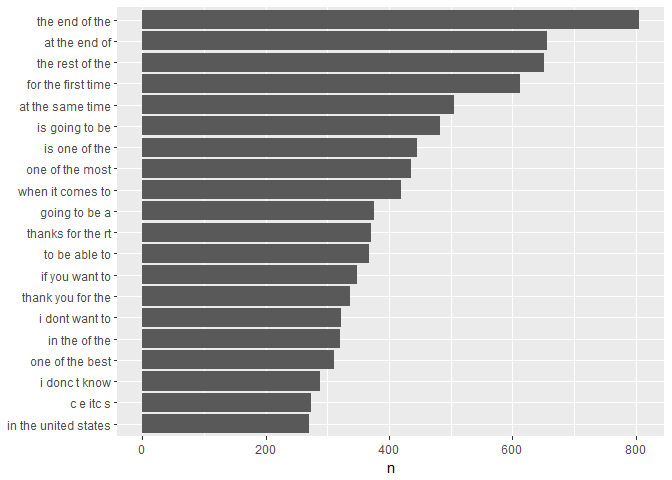
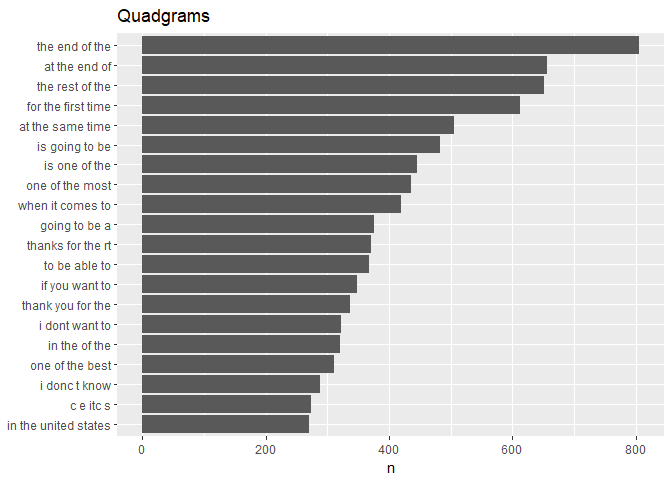
Add plot titles. Add Quitgrams

Changed region(s): [[0.0312, 0.0, 0.9688, 0.875], [0.2188, 0.8125, 0.4688, 0.875]]

diff --git a/04A_Task_Script.md b/04A_Task_Script.md
@@ -1,7 +1,7 @@
 Task 04A: Fast Ngram Files
 ================
 Mark Blackmore
-2017-11-28
+2017-11-30
 
 -   [Load the Data](#load-the-data)
 -   [Sample the data](#sample-the-data)
@@ -118,11 +118,11 @@ quadgram_repo <- clean_sample  %>%
   unnest_tokens(quadgram, text, token = "ngrams", n = 4)
 ```
 
-Quingrams
+Quintgrams
 
 ``` r
-quingram_repo <- clean_sample  %>%
-  unnest_tokens(quingram, text, token = "ngrams", n = 5)
+quintgram_repo <- clean_sample  %>%
+  unnest_tokens(quintgram, text, token = "ngrams", n = 5)
 ```
 
 Reduce n-grams files
@@ -158,26 +158,26 @@ quadgram_cover <- quadgram_repo %>%
 rm(list = c("quadgram_repo"))
 ```
 
-Quingrams
+Quintgrams
 
 ``` r
-quingram_cover <- quingram_repo %>%
-  count(quingram) %>%  
+quintgram_cover <- quintgram_repo %>%
+  count(quintgram) %>%  
   filter(n > 10) %>%
   arrange(desc(n))  
-rm(list = c("quingram_repo"))
+rm(list = c("quintgram_repo"))
 ```
 
 What does the distribution on ngrams look like?
 -----------------------------------------------
 
 ``` r
-disty <- data_frame(ngram = c(rep("bigrams",   nrow(bigram_cover)),
+disty <- data_frame(ngram = c(rep("bigrams",  nrow(bigram_cover)),
                              rep("trigrams",  nrow(trigram_cover)),
                              rep("quadgrams", nrow(quadgram_cover)),
-                             rep("quingrams", nrow(quingram_cover))),
-                   number = c(bigram_cover$n, trigram_cover$n, quadgram_cover$n,
-                              quingram_cover$n))
+                             rep("quintgrams", nrow(quintgram_cover))),
+                    number = c(bigram_cover$n,  trigram_cover$n, 
+                              quadgram_cover$n, quintgram_cover$n))
 disty
 ```
 
@@ -210,19 +210,20 @@ ggsave("./ngram_match/www/ngrams.png")
     ## Saving 7 x 5 in image
 
 ``` r
-quingram_cover %>%
+quintgram_cover %>%
   top_n(20, n) %>%
-  mutate(quingram = reorder(quingram, n)) %>%
-  ggplot(aes(quingram, n)) +
+  mutate(quintgram = reorder(quintgram, n)) %>%
+  ggplot(aes(quintgram, n)) +
   geom_col() +
   xlab(NULL) +
-  coord_flip()
+  coord_flip() +
+  ggtitle("Quintgrams")
 ```
 
 ![](04A_Task_Script_files/figure-markdown_github-ascii_identifiers/DistyPlot-2.png)
 
 ``` r
-ggsave("./ngram_match/www/quingrams.png")
+ggsave("./ngram_match/www/quintgrams.png")
 ```
 
     ## Saving 7 x 5 in image
@@ -234,7 +235,8 @@ quadgram_cover %>%
   ggplot(aes(quadgram, n)) +
   geom_col() +
   xlab(NULL) +
-  coord_flip()
+  coord_flip() +
+  ggtitle("Quadgrams")
 ```
 
 ![](04A_Task_Script_files/figure-markdown_github-ascii_identifiers/DistyPlot-3.png)
@@ -252,7 +254,8 @@ trigram_cover %>%
   ggplot(aes(trigram, n)) +
   geom_col() +
   xlab(NULL) +
-  coord_flip()
+  coord_flip() +
+  ggtitle("Trigrams")
 ```
 
 ![](04A_Task_Script_files/figure-markdown_github-ascii_identifiers/DistyPlot-4.png)
@@ -270,7 +273,8 @@ bigram_cover %>%
   ggplot(aes(bigram, n)) +
   geom_col() +
   xlab(NULL) +
-  coord_flip()
+  coord_flip() +
+  ggtitle("Bigrams")
 ```
 
 ![](04A_Task_Script_files/figure-markdown_github-ascii_identifiers/DistyPlot-5.png)
@@ -348,9 +352,9 @@ quad_words
     ## # ... with 9,931 more rows
 
 ``` r
-quin_words <- quingram_cover %>%
-  separate(quingram, c("word1", "word2", "word3", "word4", "word5"), sep = " ")
-quin_words
+quint_words <- quintgram_cover %>%
+  separate(quintgram, c("word1", "word2", "word3", "word4", "word5"), sep = " ")
+quint_words
 ```
 
     ## # A tibble: 1,317 x 6
@@ -374,7 +378,7 @@ Save data for the Shiny App
 saveRDS(bi_words, "./ngram_match/app_data/bi_words_fast.rds")
 saveRDS(tri_words, "./ngram_match/app_data/tri_words_fast.rds")
 saveRDS(quad_words,"./ngram_match/app_data/quad_words_fast.rds")
-saveRDS(quin_words,"./ngram_match/app_data/quin_words_fast.rds")
+saveRDS(quint_words,"./ngram_match/app_data/quint_words_fast.rds")
 ```
 
 ------------------------------------------------------------------------
@@ -403,27 +407,25 @@ sessionInfo()
     ## [1] stats     graphics  grDevices utils     datasets  methods   base     
     ## 
     ## other attached packages:
-    ##  [1] bindrcpp_0.2       ngram_3.0.3        wordcloud_2.5     
-    ##  [4] RColorBrewer_1.1-2 knitr_1.17         stringr_1.2.0     
-    ##  [7] dplyr_0.7.4        purrr_0.2.3        readr_1.1.1       
-    ## [10] tidyr_0.7.1        tibble_1.3.4       ggplot2_2.2.1     
-    ## [13] tidyverse_1.1.1    tidytext_0.1.4    
+    ##  [1] bindrcpp_0.2    knitr_1.17      stringr_1.2.0   dplyr_0.7.4    
+    ##  [5] purrr_0.2.3     readr_1.1.1     tidyr_0.7.1     tibble_1.3.4   
+    ##  [9] ggplot2_2.2.1   tidyverse_1.1.1 tidytext_0.1.4 
     ## 
     ## loaded via a namespace (and not attached):
-    ##  [1] tidyselect_0.2.2  slam_0.1-40       reshape2_1.4.2   
-    ##  [4] haven_1.1.0       lattice_0.20-35   colorspace_1.3-2 
-    ##  [7] htmltools_0.3.6   SnowballC_0.5.1   yaml_2.1.14      
-    ## [10] rlang_0.1.2       foreign_0.8-69    glue_1.1.1       
-    ## [13] modelr_0.1.1      readxl_1.0.0      bindr_0.1        
-    ## [16] plyr_1.8.4        munsell_0.4.3     gtable_0.2.0     
-    ## [19] cellranger_1.1.0  rvest_0.3.2       psych_1.7.8      
-    ## [22] evaluate_0.10.1   labeling_0.3      forcats_0.2.0    
-    ## [25] parallel_3.4.2    broom_0.4.2       tokenizers_0.1.4 
-    ## [28] Rcpp_0.12.13      backports_1.1.1   scales_0.5.0     
-    ## [31] jsonlite_1.5      mnormt_1.5-5      hms_0.3          
-    ## [34] digest_0.6.12     stringi_1.1.5     grid_3.4.2       
-    ## [37] rprojroot_1.2     tools_3.4.2       magrittr_1.5     
-    ## [40] lazyeval_0.2.0    janeaustenr_0.1.5 pkgconfig_2.0.1  
-    ## [43] Matrix_1.2-11     xml2_1.1.1        lubridate_1.6.0  
-    ## [46] assertthat_0.2.0  rmarkdown_1.6     httr_1.3.1       
-    ## [49] R6_2.2.2          nlme_3.1-131      compiler_3.4.2
+    ##  [1] Rcpp_0.12.13      cellranger_1.1.0  compiler_3.4.2   
+    ##  [4] plyr_1.8.4        bindr_0.1         forcats_0.2.0    
+    ##  [7] tokenizers_0.1.4  tools_3.4.2       digest_0.6.12    
+    ## [10] lubridate_1.6.0   jsonlite_1.5      gtable_0.2.0     
+    ## [13] evaluate_0.10.1   nlme_3.1-131      lattice_0.20-35  
+    ## [16] pkgconfig_2.0.1   rlang_0.1.2       Matrix_1.2-11    
+    ## [19] psych_1.7.8       yaml_2.1.14       parallel_3.4.2   
+    ## [22] haven_1.1.0       xml2_1.1.1        httr_1.3.1       
+    ## [25] janeaustenr_0.1.5 hms_0.3           tidyselect_0.2.2 
+    ## [28] rprojroot_1.2     grid_3.4.2        glue_1.1.1       
+    ## [31] R6_2.2.2          readxl_1.0.0      foreign_0.8-69   
+    ## [34] rmarkdown_1.6     modelr_0.1.1      reshape2_1.4.2   
+    ## [37] magrittr_1.5      scales_0.5.0      backports_1.1.1  
+    ## [40] SnowballC_0.5.1   htmltools_0.3.6   rvest_0.3.2      
+    ## [43] assertthat_0.2.0  mnormt_1.5-5      colorspace_1.3-2 
+    ## [46] labeling_0.3      stringi_1.1.5     lazyeval_0.2.0   
+    ## [49] munsell_0.4.3     broom_0.4.2
